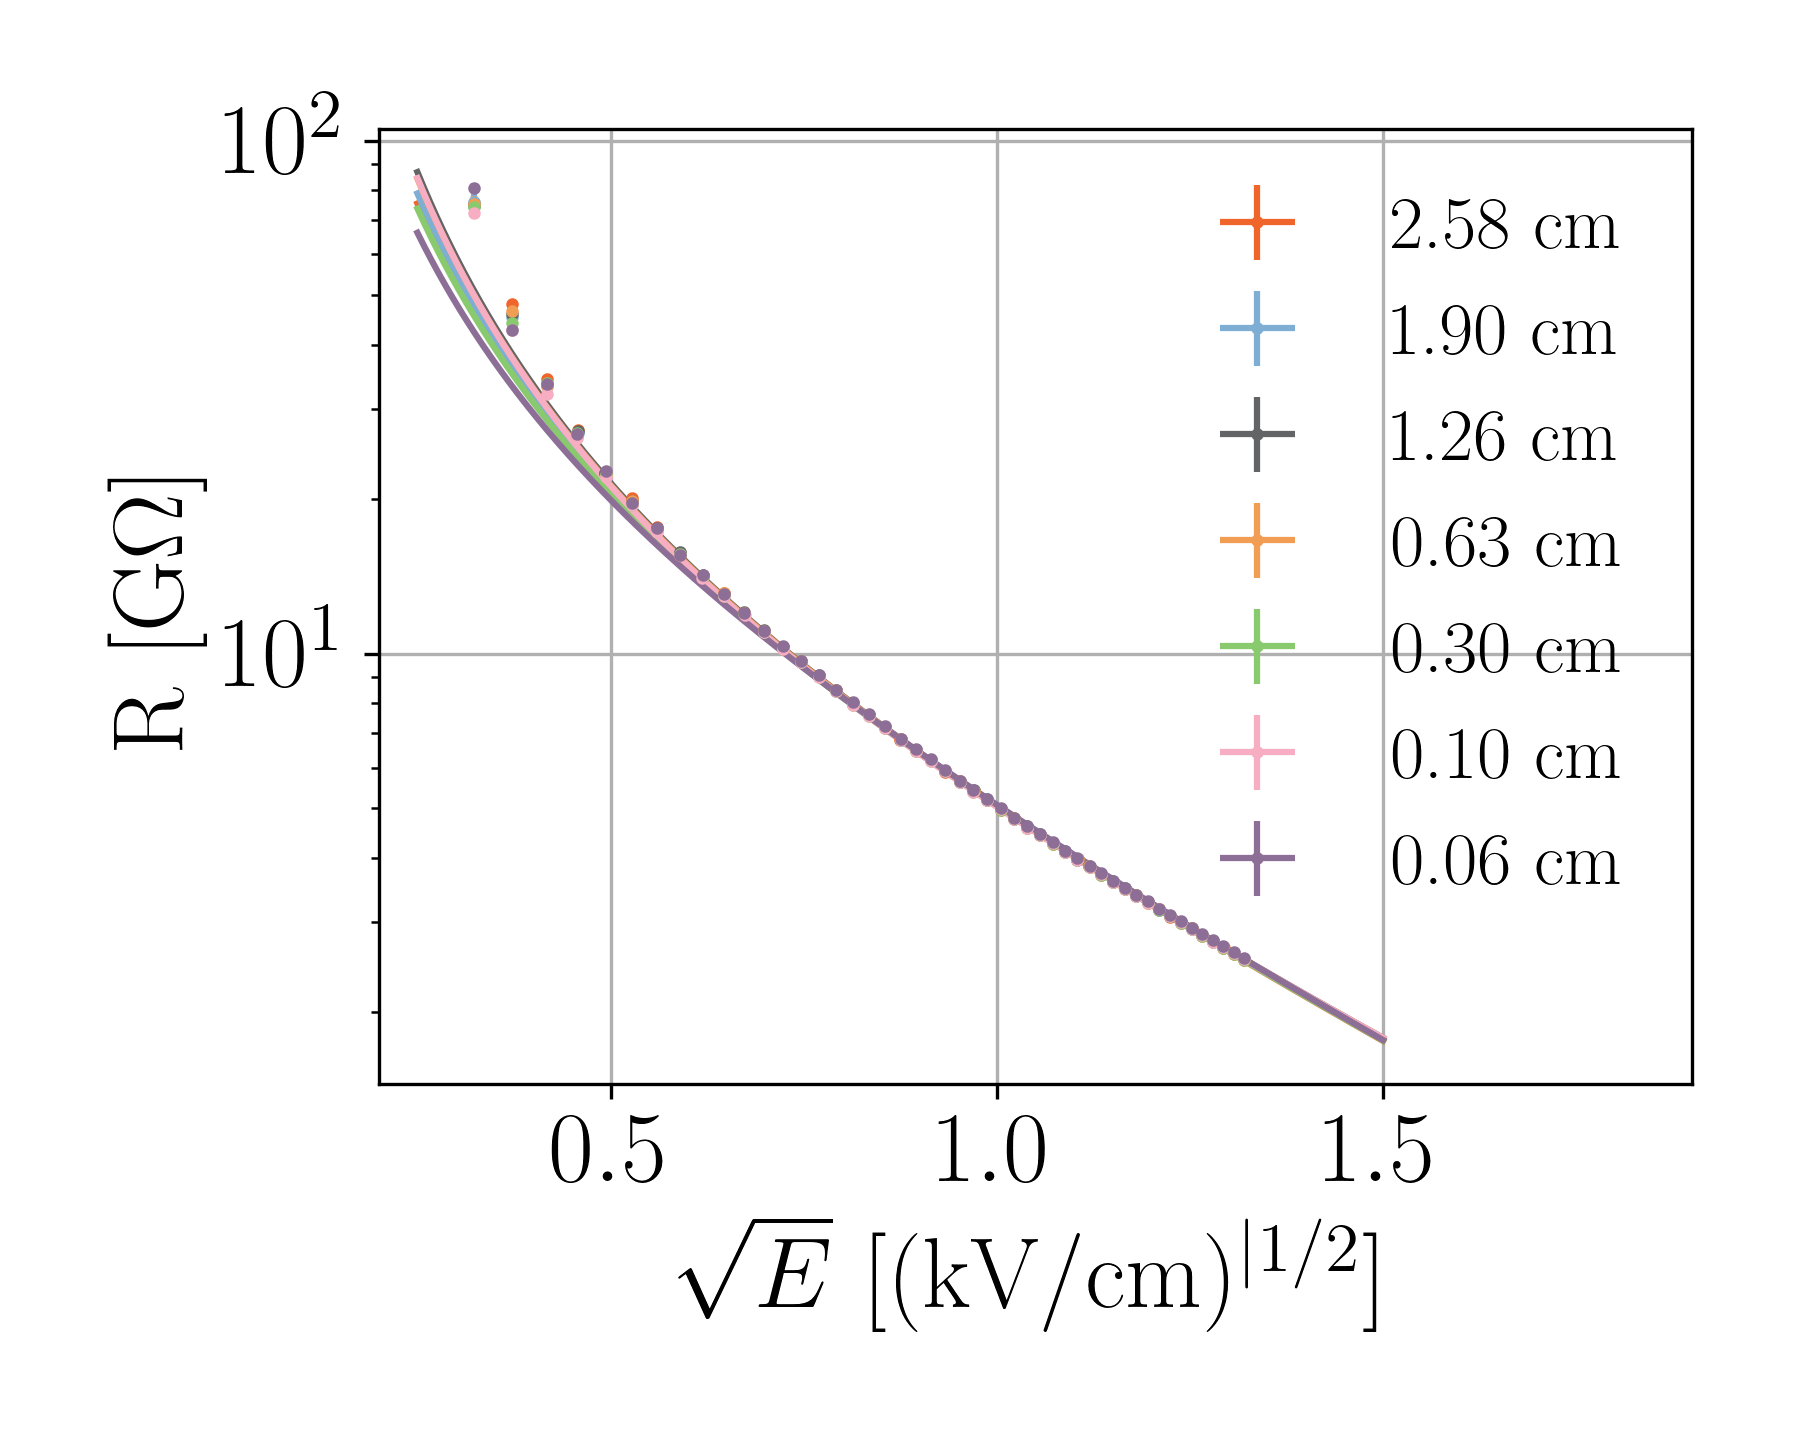
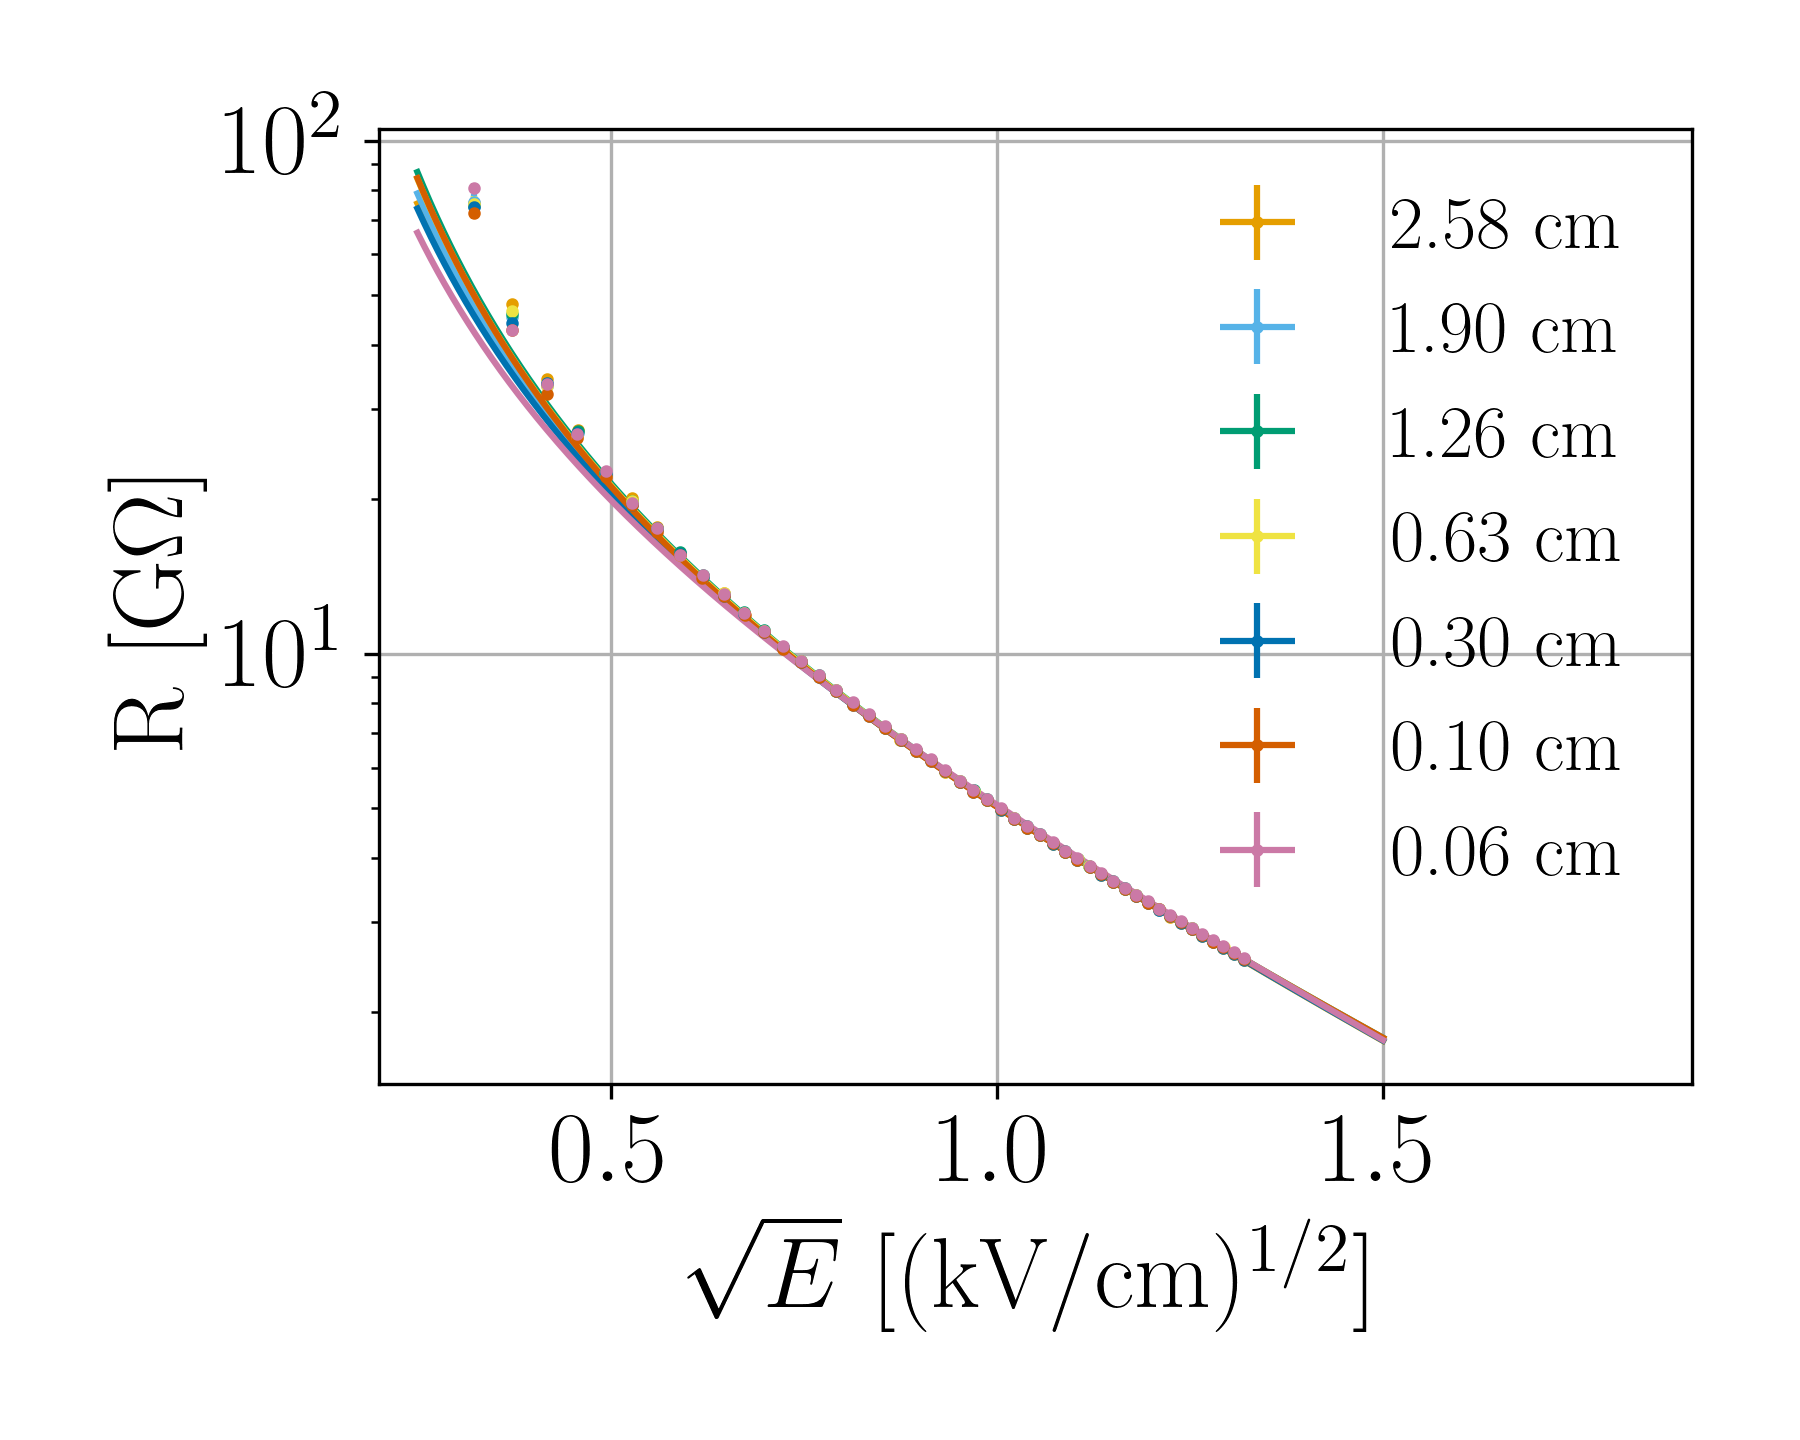
Updates from Overleaf

diff --git a/main.tex b/main.tex
@@ -529,7 +529,7 @@ Care was taken to arrange the contacts so that their edges were as parallel as p
 The recorded length is taken to be the average distance between the edges of the copper strip, the deviation from the average value is considered as an uncertainty to the measurement.
 
 We measure the current in the sample by applying voltages in the range of \SIrange{0}{5}{\kilo\volt}.
-We repeat this measurement for five different distances (\SI{12.7}{\milli\metre}, \SI{19.0}{\milli\metre}, \SI{25.4}{\milli\metre}, \SI{31.8}{\milli\metre}, and \SI{38.1}{\milli\metre}).
+We repeat this measurement for five different distances (\SI{1.29}{\centi\metre}, \SI{1.87}{\centi\metre}, \SI{2.54}{\centi\metre}, \SI{3.11}{\centi\metre}, and \SI{3.78}{\centi\metre}).
 The results of these measurements are shown in Figure~\ref{fig:TLM_length_I_and_R}. 
 The resulting resistance associated with the contact interfaces, is shown in Figure~\ref{fig:TLM_length_contactRes}.  
 The measured contact resistance at \SI{0.5}{\kilo\volt\per\centi\metre} is \SI{107.4 \pm 54.6}{\mega\ohm}.
@@ -770,7 +770,7 @@ To determine the electric-field threshold for measurable degradation, we examine
 Below \SI{2}{\kilo\volt\per\centi\metre}, the decay rate is consistent with zero within 1$\sigma$ uncertainty, although uncertainties increase at lower fields. 
 At higher electric fields, a clear increase in decay rate is observed (Figure~\ref{fig:invtaulog}).
 
-\todo{Kendall: add representative time-evolution subfigure showing drift of sheet resistance at high field. Plot versus field strength rather than voltage if possible.}
+\todo{Frankie: add representative time-evolution subfigure showing drift of sheet resistance at high field. Plot versus field strength rather than voltage if possible.}
 
 The dependence of decay rate on voltage is consistent with an approximately exponential increase. 
 At \SI{0.5}{\kilo\volt\per\centi\metre}, the decay constant is statistically consistent with no measurable degradation over the duration of the measurement. 
